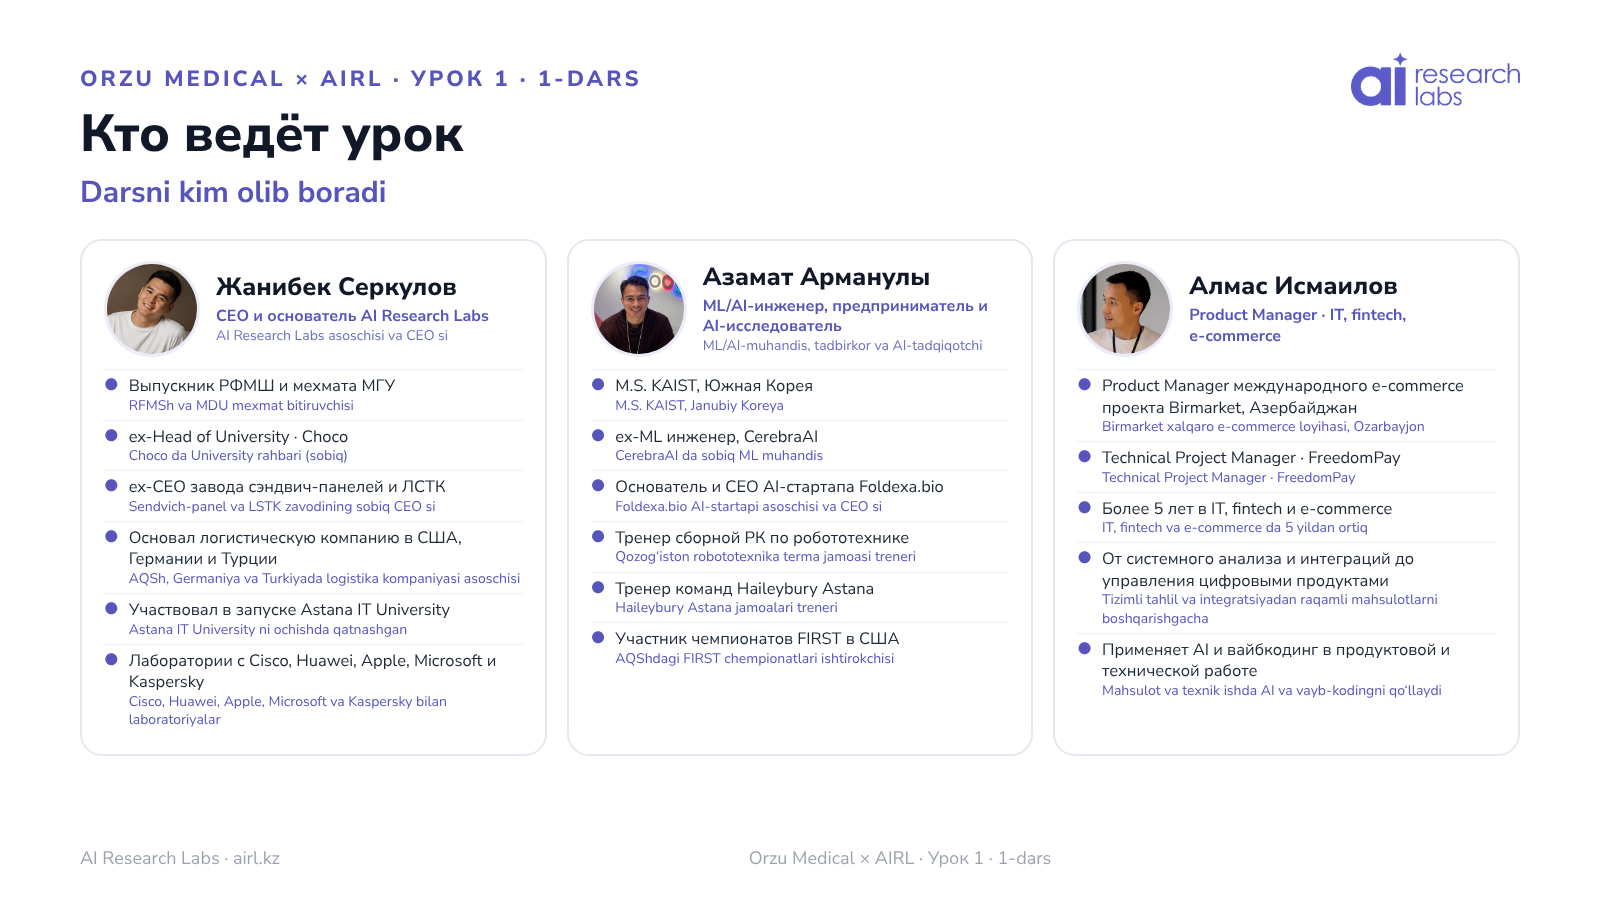
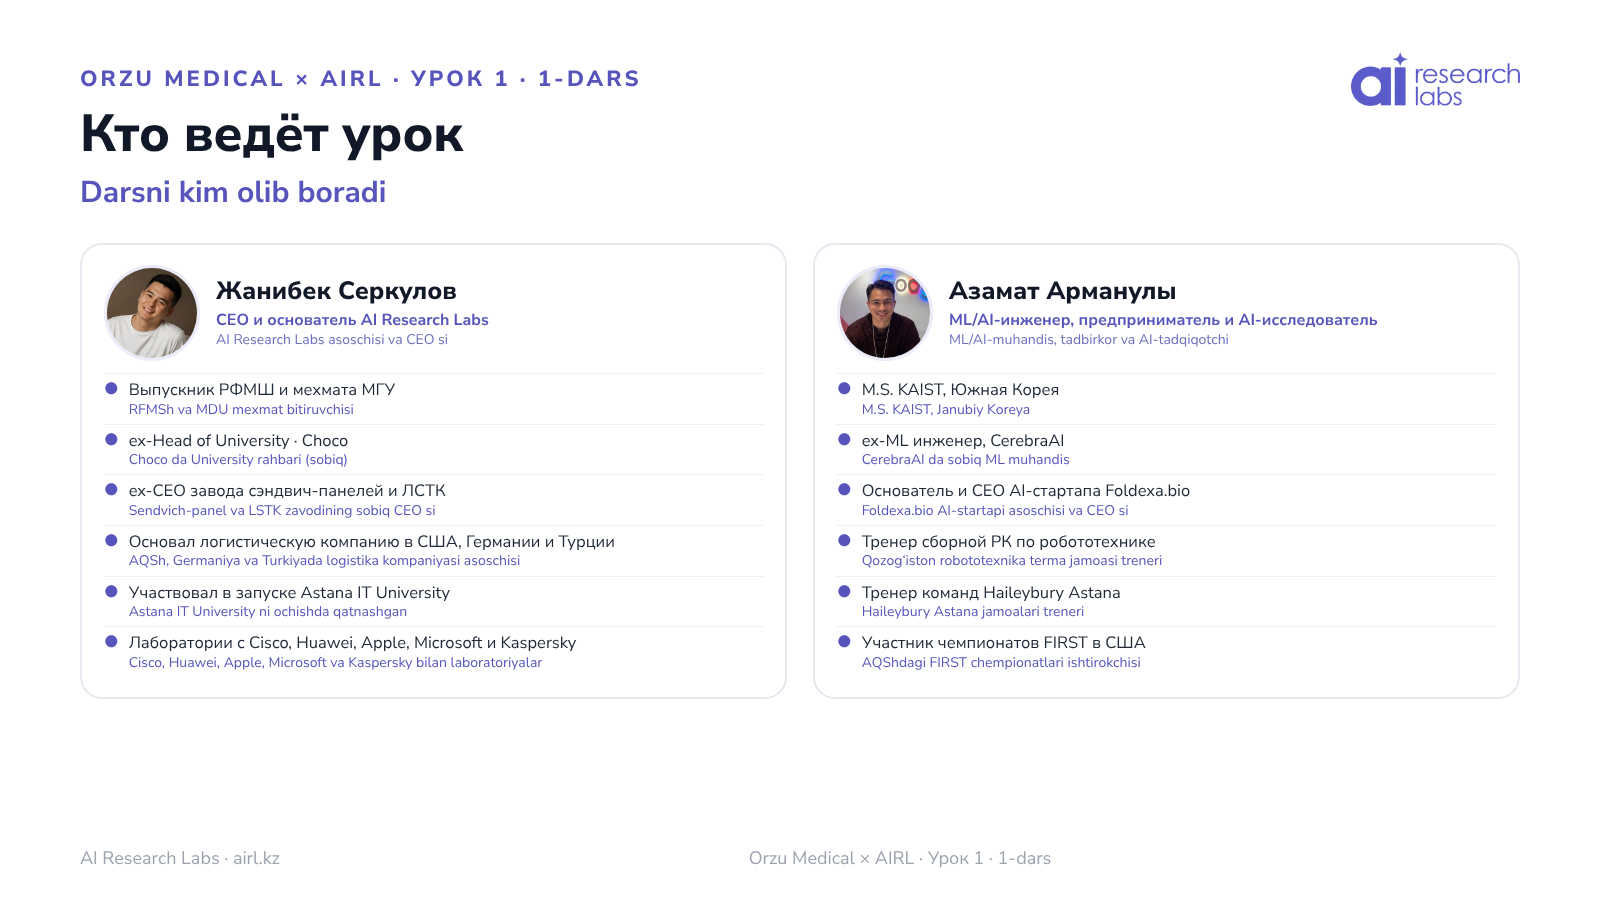
Orzu lesson 1: one-page '4 weeks of support' slide first; trainers slide without Almas
Replaces the two programme slides with one page: what the 4-week support
is, how each week runs, how to work with an AIRL skill, and the weekly
plan by skill.

Claude-Session: https://claude.ai/code/session_01R4xGES8mrcLgXzJP7i52hx

Changed region(s): [[0.0625, 0.2489, 0.9375, 0.8089]]

diff --git a/apps/api/src/db/workbook-orzu-week1.ts b/apps/api/src/db/workbook-orzu-week1.ts
@@ -9,7 +9,7 @@
  * Images are static assets in `apps/web/public/workbook/orzu/`:
  *   step-0..7.png     — lesson slides (AIRL style, RU + UZ, 1600×900)
  *   team.png          — «Кто ведёт урок» (trainers)
- *   program-a/b.png   — «Программа на 4 недели»: weeks 1–4 with AIRL skills
+ *   support.png       — «4 недели сопровождения»: format, skills workflow, 4-week plan
  *   goals.png         — «Завтра на уроке»: 90-minute plan and results
  *   slide-tilmoch.png — «Перевод на узбекский в вашем телефоне» (deck slide 2)
  *   tilmoch-qr.png    — clean QR → https://tilmoch-eight.vercel.app
@@ -93,9 +93,8 @@ export const ORZU_WEEK1_WORKBOOK: SeedBlock[] = [
     'ORZU MEDICAL × AIRL · 1-DARS\nSunʼiy intellekt bilan mini-loyiha — 7 qadamda\n\nOddiy misolda — **klinika arizalari trekeri** — butun yoʻlni bosib oʻtamiz: bir sahifalik gʻoyadan SI-agent bajaradigan birinchi vazifagacha. Dasturlashni bilish shart emas: haqiqiy promptlar va fayllarni koʻrsatamiz, siz ularni oʻz loyihangizda takrorlaysiz.\n\n**Darsning asosiy vositasi — /airl-spec koʻnikmasi:** u vazifangizni haqiqiy PRD ga (SPEC.md fayli) aylantiradi, keyin agent shu fayl boʻyicha ishlaydi.',
     'agenda',
   ),
-  img('team.png', 'Кто ведёт урок: Жанибек Серкулов, Азамат Арманулы, Алмас Исмаилов · Darsni kim olib boradi'),
-  img('program-a.png', 'Программа на 4 недели · 1/2: план, данные и приложение · 4 haftalik dastur 1/2'),
-  img('program-b.png', 'Программа на 4 недели · 2/2: защита, запуск, Demo Day · 4 haftalik dastur 2/2'),
+  img('support.png', '4 недели сопровождения: как мы работаем и как работать со скиллами · 4 haftalik hamrohlik'),
+  img('team.png', 'Кто ведёт урок: Жанибек Серкулов, Азамат Арманулы · Darsni kim olib boradi'),
   img('goals.png', 'Завтра на уроке: план на 90 минут и результаты · Darsda: 90 daqiqalik reja va natijalar'),
   t(
     'КАРТА УРОКА · что получится на каждом шаге\n1. **Идея на одну страницу** → docs/IDEA.md\n2. **Мини-PRD с /airl-spec** → SPEC.md и ARCHITECTURE.md\n3. **Подготовка проекта** → репозиторий GitHub, CLAUDE.md, папка docs/\n4. **План и маленькие задачи** → docs/TASKS.md\n5. **Первый цикл с агентом** → первая готовая функция и commit\n6. **Типичные ошибки** → как их не допустить\n7. **Итоговый чеклист** → всё ли готово к следующему уроку\n\n**Как сдавать упражнения:** напишите ответ и нажмите «Отправить». Выбор и оценка отправляются сразу при нажатии; в проверочных вопросах выберите вариант и нажмите «Проверить». Чеклист сдаётся, когда отмечены все пункты. Принятое упражнение отмечается зелёной галочкой **«Ответ принят»** — тренер видит ответ сразу.',
